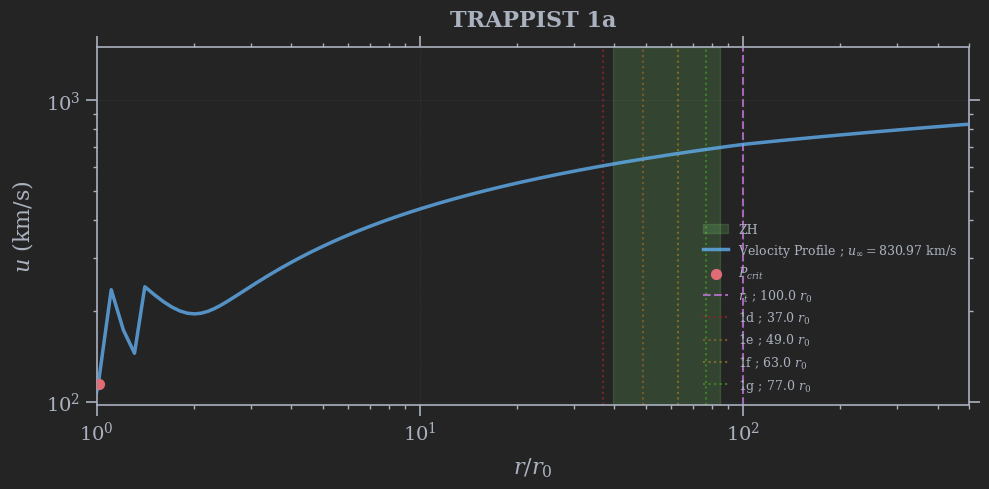
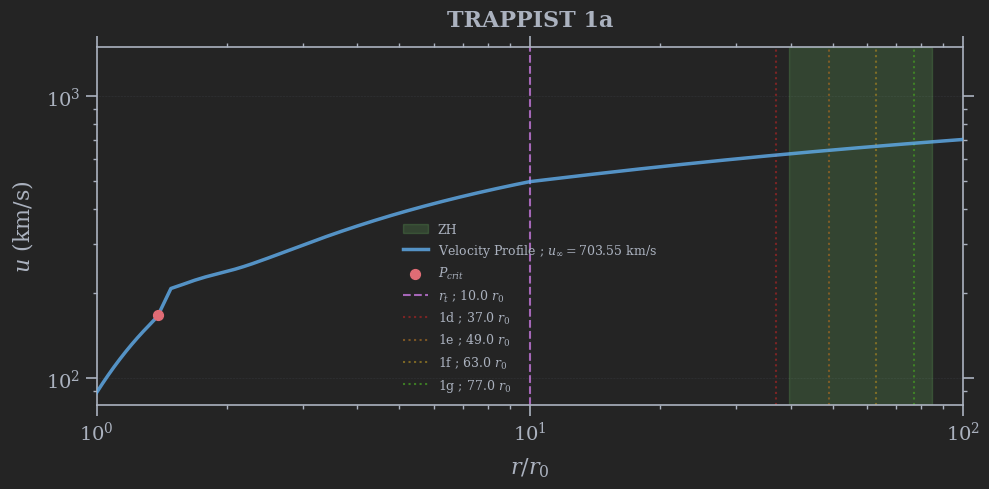
Alteração no sy.fim()

diff --git a/scripts/searchDV2.py b/scripts/searchDV2.py
@@ -10,6 +10,7 @@ if SRC_PATH not in sys.path:
 from astraeos_core.main import main
 from astraeos_core.parameters import *
 from astraeos_core.plot_curve import *
+from astraeos_core.lib import *
 
 
 def main_sd(
@@ -47,7 +48,7 @@ def main_sd(
 ):
     search = [min_dv2, max_dv2]
     idv2 = search[0]
-    i=1
+    i = 1
 
     while idv2 < search[1]:
         try:
@@ -86,6 +87,7 @@ def main_sd(
             sy.ok(f"Falha na tentativa {i}!", False)
         idv2 += step_dv2
         i += 1
+    sy.fim("SEARCH COMPLETED", flush=True)
     return None
 
 

diff --git a/src/astraeos_core/main.py b/src/astraeos_core/main.py
@@ -208,7 +208,7 @@ def main(
         cte,
     )
 
-    sy.fim("EXECUTION COMPLETED", flush=True)
+    sy.fim("SIMULATION COMPLETED", flush=True)
 
     return (
         x_tot,